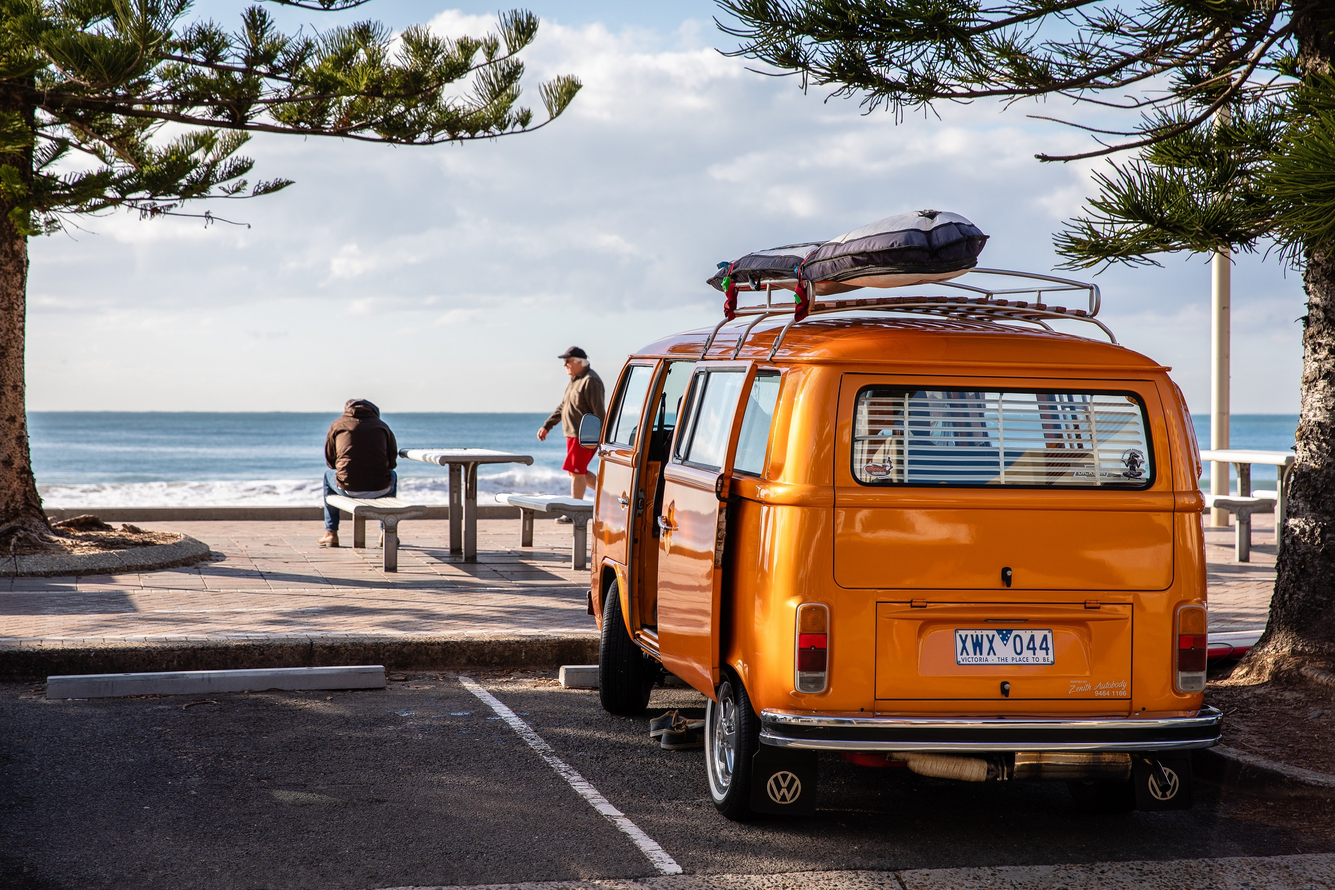
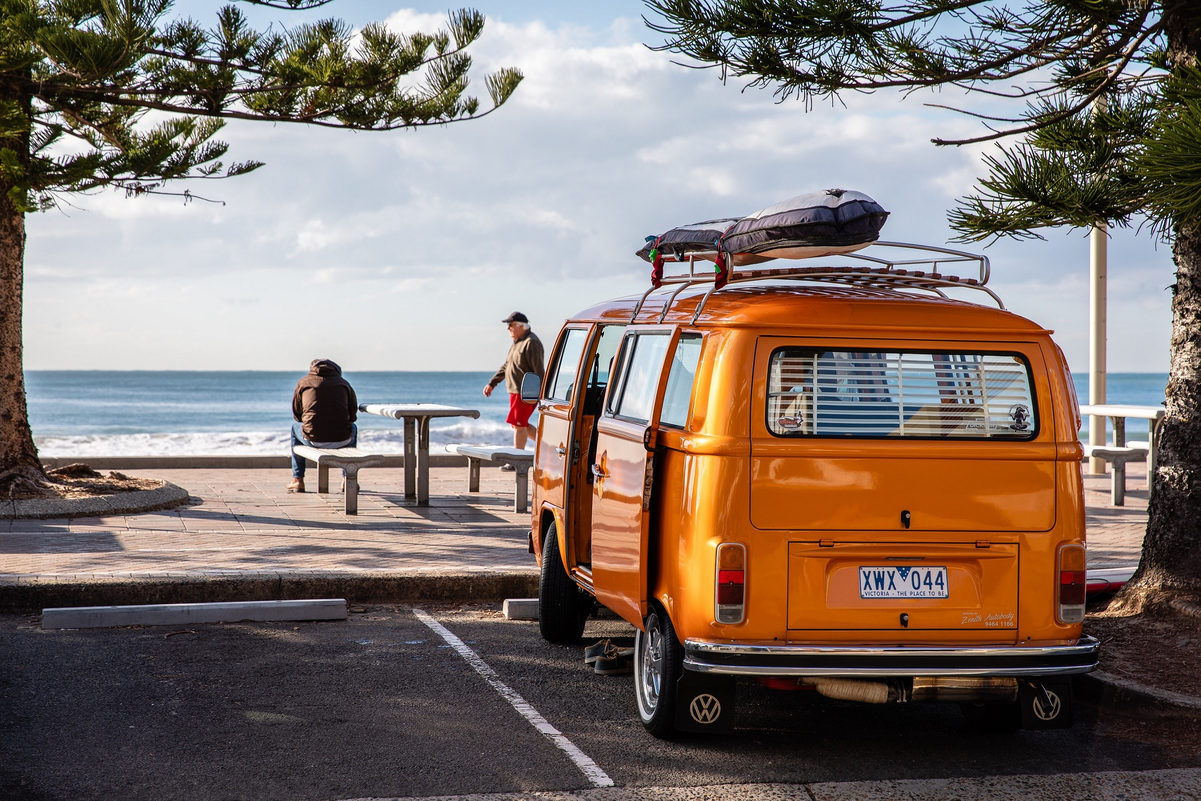
added slider

diff --git a/client/src/components/layout/Landing.js b/client/src/components/layout/Landing.js
@@ -5,7 +5,7 @@ import { Link } from 'react-router-dom';
 
 import slider1 from '../../assets/img/slider1.jpg';
 import slider2 from '../../assets/img/slider2.jpg';
-import slider3 from '../../assets/img/slider4.jpg';
+import slider3 from '../../assets/img/slider3.jpg';
 
 
 const sliderContent = [
@@ -45,7 +45,6 @@ class Landing extends Component {
 						sliderContent.map((article, index) => <div key={index}
 							className="slider-content"
 							style={{ background: `url('${article.image}') no-repeat center center` }}  >
-
 							<div className="inner">
 								<h2>{article.title}  </h2>
 								<div>{article.description} </div>
@@ -53,50 +52,49 @@ class Landing extends Component {
 						</div>
 						)}
 				</Slider>
-
-				<div class="container mt-130 z-index100">
-					<div class="row">
-						<div class="col-md-12">
-							<div class="bs-example bs-example-tabs cstyle04">
-								<ul class="nav nav-tabs" id="myTab">
-									<li onclick="mySelectUpdate()" class="active"><a data-toggle="tab" href="#air2"><span class="flight"></span><span class="hidetext">Air</span>&nbsp;</a></li>
+				<div className="container mt-130 z-index100">
+					<div className="row">
+						<div className="col-md-12">
+							<div className="bs-example bs-example-tabs cstyle04">
+								<ul className="nav nav-tabs" id="myTab">
+									<li onclick="mySelectUpdate()" className="active"><a data-toggle="tab" href="#air2"><span className="flight"></span><span className="hidetext">Air</span>&nbsp;</a></li>
 								</ul>
-								<div class="tab-content2" id="myTabContent">
-									<div id="air2" class="tab-pane fade active in">
-										<div class="col-md-4">
-											<div class="w50percent">
-												<div class="wh90percent textleft">
-													<span class="opensans size13"><b>Flying from</b></span>
-													<input type="text" class="form-control" placeholder="City or airport" />
+								<div className="tab-content2" id="myTabContent">
+									<div id="air2" className="tab-pane fade active in">
+										<div className="col-md-4">
+											<div className="w50percent">
+												<div className="wh90percent textleft">
+													<span className="opensans size13"><b>Flying from</b></span>
+													<input type="text" className="form-control" placeholder="City or airport" />
 												</div>
 											</div>
-											<div class="w50percentlast">
-												<div class="wh90percent textleft right">
-													<span class="opensans size13"><b>To</b></span>
-													<input type="text" class="form-control" placeholder="City or airport" />
-												</div>
-											</div>
-										</div>
-										<div class="col-md-4">
-											<div class="w50percent">
-												<div class="wh90percent textleft">
-													<span class="opensans size13"><b>Departing</b></span>
-													<input type="text" class="form-control mySelectCalendar" id="datepicker3" placeholder="mm/dd/yyyy" />
-												</div>
-											</div>
-											<div class="w50percentlast">
-												<div class="wh90percent textleft right">
-													<span class="opensans size13"><b>Returning</b></span>
-													<input type="text" class="form-control mySelectCalendar" id="datepicker4" placeholder="mm/dd/yyyy" />
+											<div className="w50percentlast">
+												<div className="wh90percent textleft right">
+													<span className="opensans size13"><b>To</b></span>
+													<input type="text" className="form-control" placeholder="City or airport" />
 												</div>
 											</div>
 										</div>
-										<div class="col-md-4">
-											<div class="room1" >
-												<div class="w50percent">
-													<div class="wh90percent textleft">
-														<span class="opensans size13"><b>Adult</b></span>
-														<select class="form-control mySelectBoxClass">
+										<div className="col-md-4">
+											<div className="w50percent">
+												<div className="wh90percent textleft">
+													<span className="opensans size13"><b>Departing</b></span>
+													<input type="text" className="form-control mySelectCalendar" id="datepicker3" placeholder="mm/dd/yyyy" />
+												</div>
+											</div>
+											<div className="w50percentlast">
+												<div className="wh90percent textleft right">
+													<span className="opensans size13"><b>Returning</b></span>
+													<input type="text" className="form-control mySelectCalendar" id="datepicker4" placeholder="mm/dd/yyyy" />
+												</div>
+											</div>
+										</div>
+										<div className="col-md-4">
+											<div className="room1" >
+												<div className="w50percent">
+													<div className="wh90percent textleft">
+														<span className="opensans size13"><b>Adult</b></span>
+														<select className="form-control mySelectBoxclassName">
 															<option>1</option>
 															<option selected>2</option>
 															<option>3</option>
@@ -105,10 +103,10 @@ class Landing extends Component {
 														</select>
 													</div>
 												</div>
-												<div class="w50percentlast">
-													<div class="wh90percent textleft right">
-														<span class="opensans size13"><b>Child</b></span>
-														<select class="form-control mySelectBoxClass">
+												<div className="w50percentlast">
+													<div className="wh90percent textleft right">
+														<span className="opensans size13"><b>Child</b></span>
+														<select className="form-control mySelectBoxclassName">
 															<option>0</option>
 															<option selected>1</option>
 															<option>2</option>
@@ -122,16 +120,16 @@ class Landing extends Component {
 										</div>
 									</div>
 								</div>
-								<div class="searchbg2">
-									<div class="left ca01"><a href="#">Advanced +</a></div>
+								<div className="searchbg2">
+									<div className="left ca01"><a href="#">Advanced +</a></div>
 									<form action="#">
-										<button type="submit" class="btn-search right mr30">Search</button>
+										<button type="submit" className="btn-search right mr30">Search</button>
 									</form>
 								</div>
 							</div>
 						</div>
 					</div>
-				</div>
+				</div>			
 			</Fragment>
 		)
 	}
